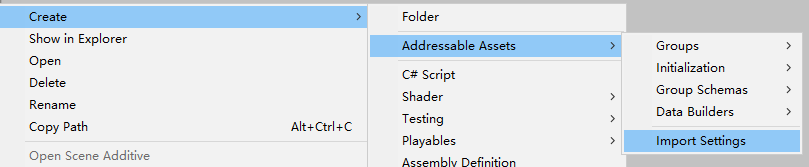
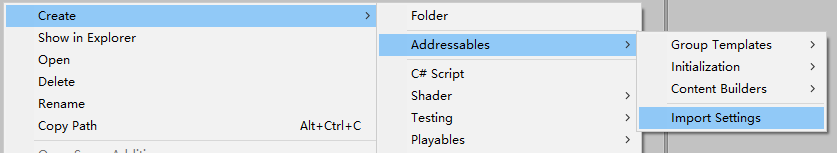
fix: context menu path to create settings

diff --git a/Editor/AddressableImportSettings.cs b/Editor/AddressableImportSettings.cs
@@ -4,7 +4,7 @@ using System.Collections.Generic;
 using UnityAddressableImporter.Helper;
 
 
-[CreateAssetMenu(fileName = "AddressableImportSettings", menuName = "Addressable Assets/Import Settings", order = 50)]
+[CreateAssetMenu(fileName = "AddressableImportSettings", menuName = "Addressables/Import Settings", order = 50)]
 public class AddressableImportSettings : ScriptableObject
 {
     public const string kDefaultConfigObjectName = "addressableimportsettings";

diff --git a/CHANGELOG.md b/CHANGELOG.md
@@ -4,6 +4,10 @@ All notable changes to this package will be documented in this file.
 The format is based on [Keep a Changelog](http://keepachangelog.com/en/1.0.0/)
 and this project adheres to [Semantic Versioning](http://semver.org/spec/v2.0.0.html).
 
+## [0.4.2] - 2019-12-25
+ - Updated context menu path to create settings.
+ - Added alternative way to install the package via openupm.
+
 ## [0.4.1] - 2019-09-29
  - Updated contributors.
 
